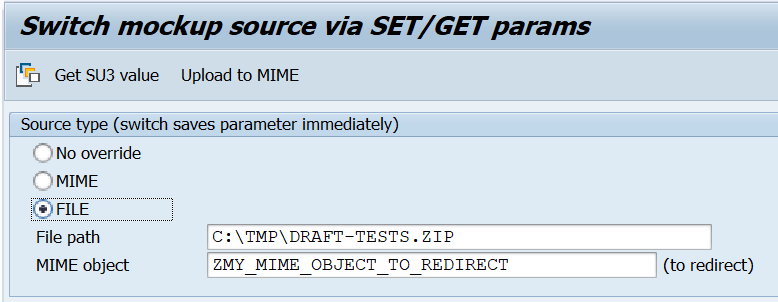
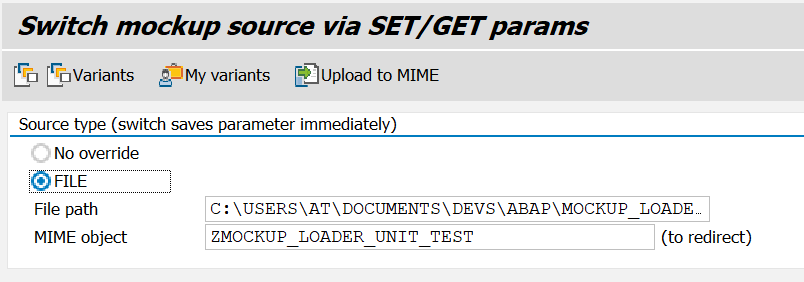
switch source doc update #22

diff --git a/README.md b/README.md
@@ -323,17 +323,19 @@ Dependencies (to install before mockup loader):
 
 ## Load source redirection
 
-Zipped mockups slug is supposed to be uploaded as a MIME object via SMW0. However, during data or test creation, it is more convenient (and faster) to read local file. In particular, not to upload 'draft' test data to the system.
+Zipped mockups slug is supposed to be uploaded as a MIME object via SMW0. However, during data or test creation, it is more convenient (and faster) to read local file. In particular, not to upload 'draft' test data to the system before it is ready, interfering with other developers. It is also very convenient to use in conjunction with [java script mockup compiler](https://github.com/sbcgua/mockup-compiler-js) (see "Conversion from Excel" section below).
 
-`i_type` and `i_path` are the parameters to the `create` method to define the 'normal' mockup source. To **temporarily** switch to another source you can use the transaction `ZMOCKUP_LOADER_SWSRC`. It will initialize SET/GET parameters `ZMOCKUP_LOADER_STYPE` and `ZMOCKUP_LOADER_SPATH(MIME)` which will **override** defaults for the current session only. Code-wise, you can also find out if the mockup loader instance is redirected by calling `is_redirected` method.
+To normally code the mockup source via `i_type` and `i_path` parameters to the `create` method. To **temporarily** switch to another source you can use the transaction `ZMOCKUP_LOADER_SWSRC`. It will initialize SET/GET parameters `ZMOCKUP_LOADER_STYPE` and `ZMOCKUP_LOADER_SPATH`/`ZMOCKUP_LOADER_SMIME` which will **override** defaults for the current session only.
 
 ![switch source](docs/switch.png)
 
-N.B.
-- Type change in the selection screen immediately changes the parameters in session memory, no run is required ('enter' should be pressed though after manual text fields change to trigger `on screen`)
-- `Get SU3` reads param values from user master (useful when you work on the same project for some time)
-- `Upload to MIME` uploads the file to MIME storage instead of going through `SMW0` (the MIME object must exist)
-- Saving variants is also convenient ;)
+Code-wise, you can also find out if the mockup loader instance is redirected by calling `is_redirected` method. E.g. to issue redirection warning within your unit tests (see example in [REFERENCE.md](docs/REFERENCE.md))
+
+User's manual:
+
+- Type change in the selection screen immediately changes the parameters in session memory, no run is required (**'enter' must be pressed** though after manual text fields change to trigger `on screen` event)
+- `Upload to MIME` toolbar button uploads the file to MIME storage instead of going through `SMW0` (the MIME object must exist)
+- Saving variants is also convenient. You can then call the variant by `Variants` or `My variants` (created by your user) toolbar commands. Prefer these commands to the native variant selection (the very first button), because native variant command does not trigger `on screen`, so you must press Enter after choosing your variant (which is less convenient).
 
 ## Conversion from Excel
 
